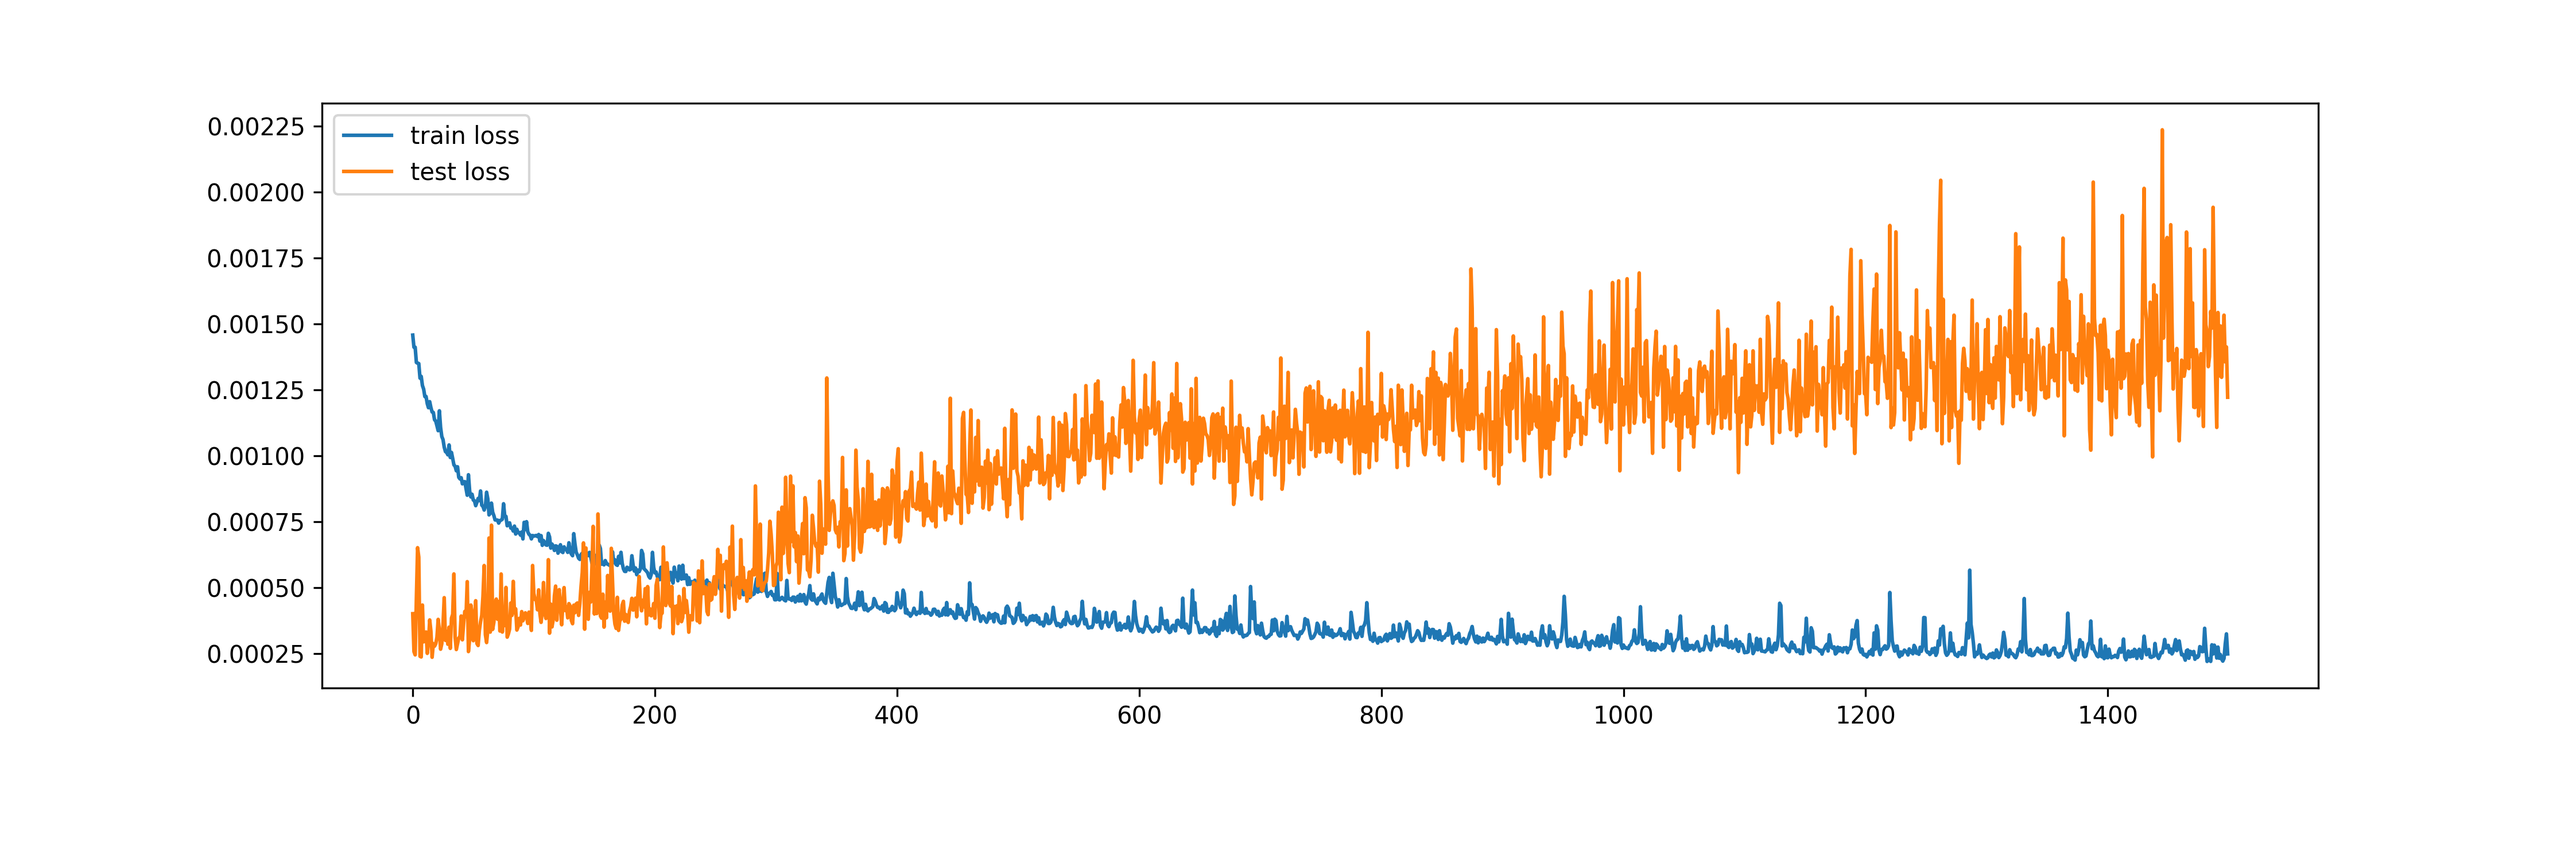
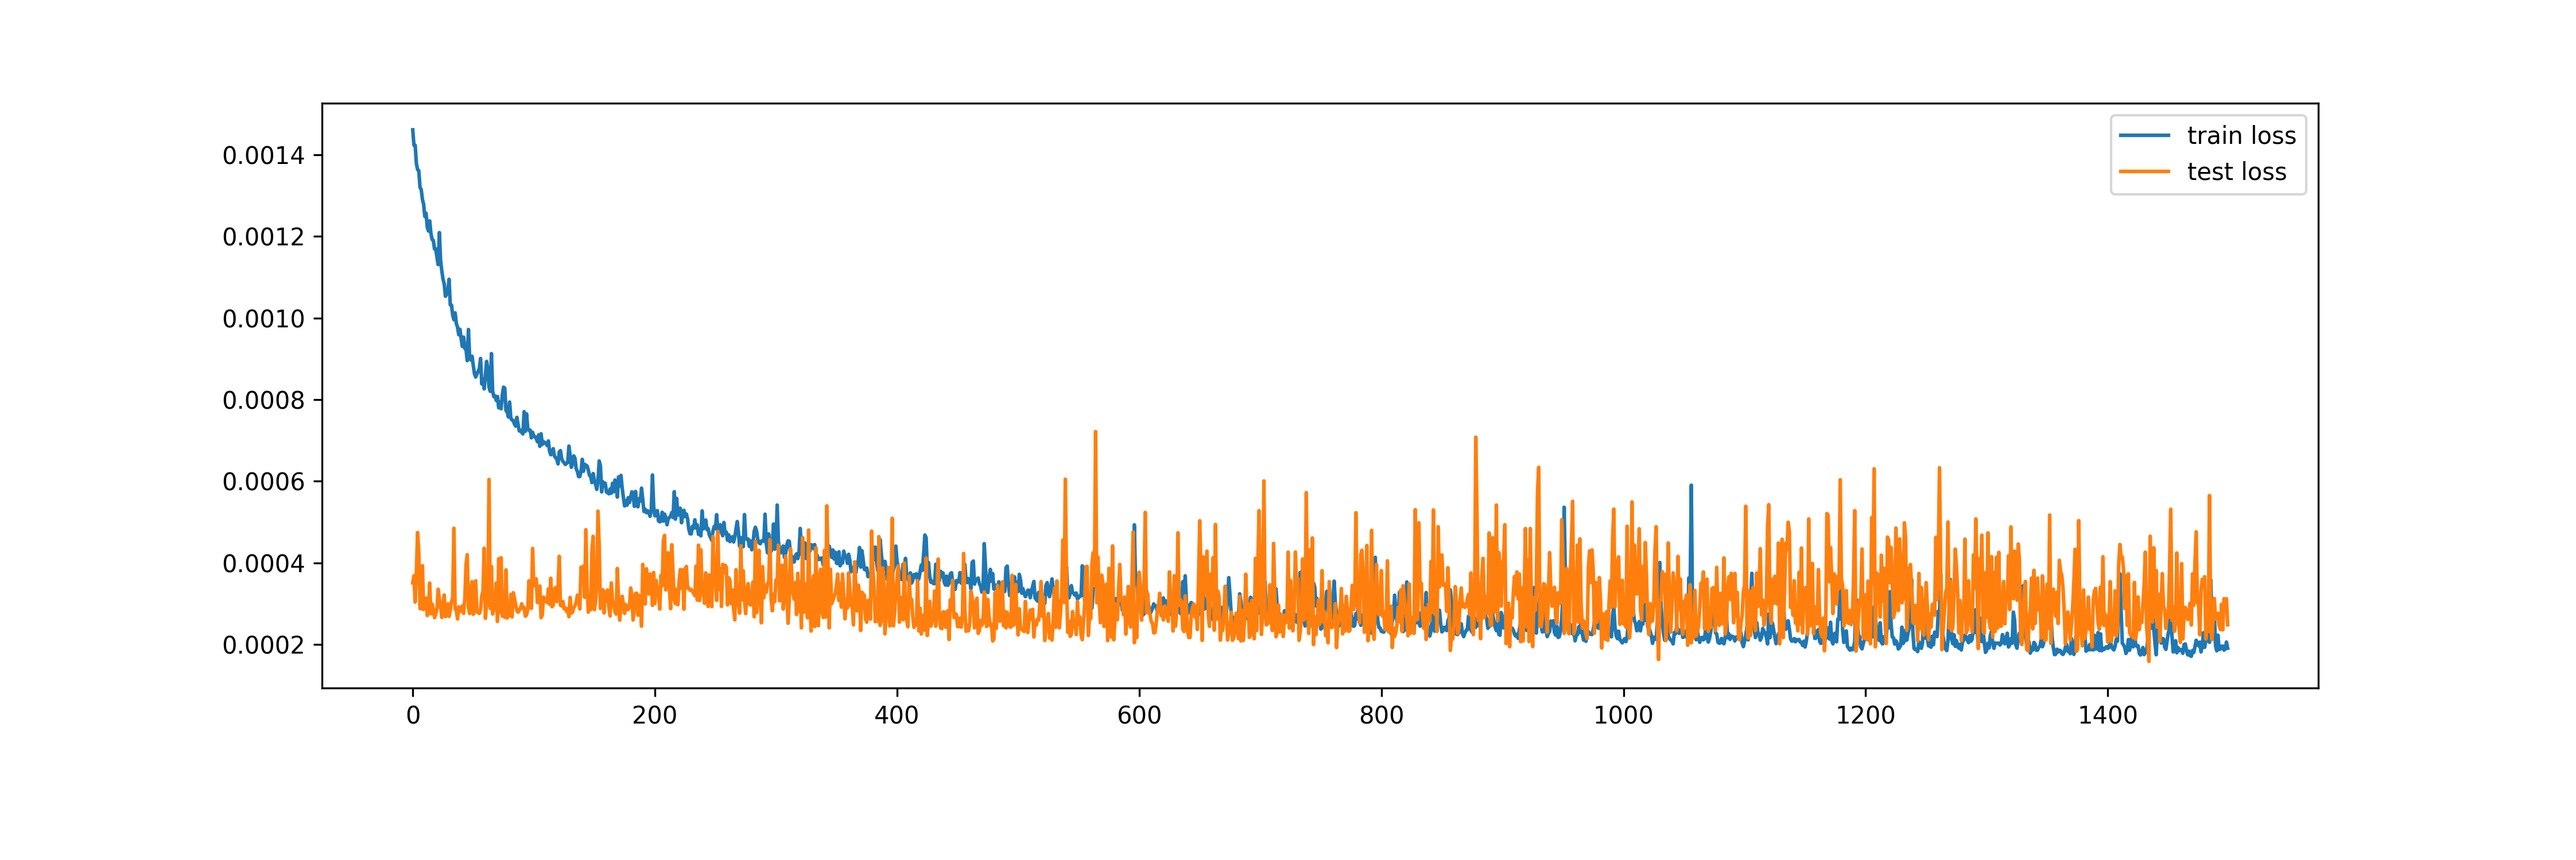
updated code to ad "plot" bool to many methods

diff --git a/Forecasting/ts_comparison.py b/Forecasting/ts_comparison.py
@@ -7,24 +7,21 @@ from ts_tensorflow import StocksForecastDL
 from ts_prophet import StocksForecastProphet
 
 
-def run_comparison():
-    pass
+def run_comparison(col, stock_list, N_TEST_list, DL_models, epochs, save_df=False):
+    """
+    Run a comparison of different forecasting models.
 
+    Args:
+        col (str): Column name to forecast.
+        stock_list (tuple): List of stock names.
+        N_TEST_list (tuple): List of forecast horizons.
+        DL_models (dict): Dictionary of DL models to compare.
+        epochs (int): Number of training epochs.
+        save_df (bool, optional): Whether to save the results as a CSV file. Default is False.
 
-if __name__ == "__main__":
-    plt.ion()
-
-    col = 'Log'
-    # N_TEST_list = (5, 10)
-    # stock_list = ('AAPL', 'UAL')
-    stock_list = ('AAPL', 'UAL', 'WMT', 'PFE', 'MA', 'MCD', 'OXY', 'BA', 'GE', 'GM')
-    N_TEST_list = (5, 10, 20, 50, 100, 200)
-    DL_models = {
-        "ann": ('ann', None),
-        "cnn": ('cnn', None),
-        "lstm": ('rnn', 'lstm'),
-        "gru": ('rnn', 'gru'),
-    }
+    Returns:
+        pandas.DataFrame: DataFrame containing the comparison results.
+    """
 
     column_names = ['model', 'stock', 'n_test', 'mape']
     results = pd.DataFrame(columns=column_names)
@@ -33,21 +30,23 @@ if __name__ == "__main__":
         for stock in stock_list:
             p = StocksForecastProphet(stock_name_list=stock_list, n_test=n)
 
-            p.run_prophet(col=col, stock_name=stock)
+            p.run_prophet(col=col, stock_name=stock, plot=False)
             mape = mean_absolute_percentage_error(p.dfs[stock]['yhat'][-n:], p.dfs[stock]['y'][-n:])
             new_row = ['prophet', stock, n, mape]
             results.loc[len(results)] = new_row
             for model in DL_models:
-                dl = StocksForecastDL(stock_name_list=stock_list, n_test=n, epochs=50)
+                dl = StocksForecastDL(stock_name_list=stock_list, n_test=n, epochs=epochs)
                 if DL_models[model][0] == 'rnn':
                     dl.single_model_comparison(col=[col],
                                                stock_name=stock,
                                                model=DL_models[model][0],
-                                               rnn_model=DL_models[model][1])
+                                               rnn_model=DL_models[model][1],
+                                               plot=False,)
                 else:
                     dl.single_model_comparison(col=[col],
                                                stock_name=stock,
-                                               model=DL_models[model][0])
+                                               model=DL_models[model][0],
+                                               plot=False,)
 
                 mape1 = mean_absolute_percentage_error(dl.dfs[stock]['multistep'][-n:], dl.dfs[stock][col][-n:])
                 mape2 = mean_absolute_percentage_error(dl.dfs[stock]['multioutput'][-n:], dl.dfs[stock][col][-n:])
@@ -56,10 +55,23 @@ if __name__ == "__main__":
                 results.loc[len(results)] = new_row1
                 results.loc[len(results)] = new_row2
 
-    print(results.head(10))
-    results.to_csv('results.csv', index=False)
+    if save_df:
+        results.to_csv('results.csv', index=False)
 
-    df = pd.read_csv("results.csv")
+    return results
+
+
+def plot_comparison(df, load_df=False):
+    """
+    Plot the comparison results.
+
+    Args:
+        df (pandas.DataFrame): DataFrame containing the comparison results.
+        load_df (bool, optional): Whether to load the results from a CSV file. Default is False.
+    """
+
+    if load_df:
+        df = pd.read_csv("results.csv")
 
     # Calculate the average mape for each model and type
     averages = df.groupby(['model', 'n_test'])['mape'].mean().reset_index()
@@ -84,3 +96,82 @@ if __name__ == "__main__":
 
     # Save the plot
     plt.savefig("comparison_dl.png", dpi=300)
+
+
+if __name__ == "__main__":
+    plt.ion()
+
+    COL = 'Log'
+    # N_TEST_list = (5, 10)
+    # stock_list = ('AAPL', 'UAL')
+    STOCK_LIST = ('AAPL', 'UAL', 'WMT', 'PFE', 'MA', 'MCD', 'OXY', 'BA', 'GE', 'GM')
+    N_TEST_LIST = (5, 10, 20, 50, 100, 200)
+    DL_MODELS = {
+        "ann": ('ann', None),
+        "cnn": ('cnn', None),
+        "lstm": ('rnn', 'lstm'),
+        "gru": ('rnn', 'gru'),
+    }
+    EPOCHS = 1500
+
+    comp_results = run_comparison(COL, STOCK_LIST, N_TEST_LIST, DL_MODELS, EPOCHS)
+    plot_comparison(comp_results)
+
+    # column_names = ['model', 'stock', 'n_test', 'mape']
+    # results = pd.DataFrame(columns=column_names)
+    #
+    # for n in N_TEST_list:
+    #     for stock in stock_list:
+    #         p = StocksForecastProphet(stock_name_list=stock_list, n_test=n)
+    #
+    #         p.run_prophet(col=col, stock_name=stock)
+    #         mape = mean_absolute_percentage_error(p.dfs[stock]['yhat'][-n:], p.dfs[stock]['y'][-n:])
+    #         new_row = ['prophet', stock, n, mape]
+    #         results.loc[len(results)] = new_row
+    #         for model in DL_models:
+    #             dl = StocksForecastDL(stock_name_list=stock_list, n_test=n, epochs=50)
+    #             if DL_models[model][0] == 'rnn':
+    #                 dl.single_model_comparison(col=[col],
+    #                                            stock_name=stock,
+    #                                            model=DL_models[model][0],
+    #                                            rnn_model=DL_models[model][1])
+    #             else:
+    #                 dl.single_model_comparison(col=[col],
+    #                                            stock_name=stock,
+    #                                            model=DL_models[model][0])
+    #
+    #             mape1 = mean_absolute_percentage_error(dl.dfs[stock]['multistep'][-n:], dl.dfs[stock][col][-n:])
+    #             mape2 = mean_absolute_percentage_error(dl.dfs[stock]['multioutput'][-n:], dl.dfs[stock][col][-n:])
+    #             new_row1 = [f"{model}_single", stock, n, mape1]
+    #             new_row2 = [f"{model}_multi", stock, n, mape2]
+    #             results.loc[len(results)] = new_row1
+    #             results.loc[len(results)] = new_row2
+    #
+    # print(results.head(10))
+    # results.to_csv('results.csv', index=False)
+
+    # df = pd.read_csv("results.csv")
+    #
+    # # Calculate the average mape for each model and type
+    # averages = df.groupby(['model', 'n_test'])['mape'].mean().reset_index()
+    #
+    # # Create a line plot for each model
+    # fig, ax = plt.subplots(figsize=(15, 5))
+    # models = averages['model'].unique()
+    # for model in models:
+    #     # Determine the line style based on the model name
+    #     linestyle = '--o' if 'single' in model else '-o'
+    #
+    #     model_data = averages[averages['model'] == model]
+    #     ax.plot(model_data['n_test'], model_data['mape'], linestyle, label=model)
+    #
+    # # Set plot title and labels
+    # ax.set_title('Average Value by Type for Each Model')
+    # ax.set_xlabel('Forecast Horizon')
+    # ax.set_ylabel('Mean Absolute Percentage Error')
+    #
+    # # Show a legend indicating the models
+    # plt.legend()
+    #
+    # # Save the plot
+    # plt.savefig("comparison_dl.png", dpi=300)

diff --git a/Forecasting/ts_tensorflow.py b/Forecasting/ts_tensorflow.py
@@ -3,6 +3,7 @@ import yfinance as yf
 import matplotlib.pyplot as plt
 import warnings
 import sys
+import random
 
 import tensorflow as tf
 from tensorflow.keras.layers import Dense, Input  # ANN
@@ -94,7 +95,7 @@ class StocksForecastDL:
             start_date (str): Start date for data retrieval.
             end_date (str): End date for data retrieval.
             t (int): Number of time steps.
-            n_test (int): Number of test samples.
+            n_test (int): length of forecast horizon.
             epochs (int): Number of training epochs.
         """
         self.T = t
@@ -236,7 +237,9 @@ class StocksForecastDL:
                      col: list = ['Log'],
                      diff=True,
                      model="cnn",
-                     multistep=False, **kwargs):
+                     multistep=False,
+                     plot=True,
+                     **kwargs):
         """
         Run the forecast for a given stock.
 
@@ -246,6 +249,7 @@ class StocksForecastDL:
             diff (bool): Indicates whether differencing is applied.
             model (str): Model type ('ann', 'rnn', or 'cnn').
             multistep (bool): Indicates whether multistep prediction is performed.
+            plot (bool): Whether to plot. Default is True.
             **kwargs: Additional keyword arguments for the selected model.
         """
 
@@ -300,24 +304,31 @@ class StocksForecastDL:
             verbose=0,
         )
 
-        plt.plot(r.history['loss'], label='train loss')
-        plt.plot(r.history['val_loss'], label='test loss')
-        plt.legend()
+        if plot:
+            plt.plot(r.history['loss'], label='train loss')
+            plt.plot(r.history['val_loss'], label='test loss')
+            plt.legend()
 
-        if multistep:
-            step_type = "multi"
-        else:
-            step_type = "single"
-        if model == "rnn":
-            rnn_model = kwargs.get("rnn_model")
-            plt.savefig(f"{model}_{rnn_model}_{step_type}_hist.png", dpi=300)
-        else:
-            plt.savefig(f"{model}_{step_type}_hist.png", dpi=300)
-        plt.clf()
+            if multistep:
+                step_type = "multi"
+            else:
+                step_type = "single"
+            if model == "rnn":
+                rnn_model = kwargs.get("rnn_model")
+                plt.savefig(f"{model}_{rnn_model}_{step_type}_hist.png", dpi=300)
+            else:
+                plt.savefig(f"{model}_{step_type}_hist.png", dpi=300)
+            plt.clf()
 
         self.make_predictions(stock_name, col, train_idx, test_idx, Xtrain, Xtest, nn_model, ann_bool, multistep)
 
-    def single_model_comparison(self, stock_name: str = 'UAL', col: list = ['Log'], diff=True, model="cnn", **kwargs):
+    def single_model_comparison(self,
+                                stock_name: str = 'UAL',
+                                col: list = ['Log'],
+                                diff=True,
+                                model="cnn",
+                                plot=True,
+                                **kwargs):
         """
         Perform a comparison of a single model for a given stock.
 
@@ -326,28 +337,32 @@ class StocksForecastDL:
             col (list): List of columns to be used.
             diff (bool): Indicates whether differencing is applied.
             model (str): Model type ('ann', 'rnn', or 'cnn').
+            plot (bool): Whether to plot. Default is True.
             **kwargs: Additional keyword arguments for the selected model.
 
         Returns:
             DataFrame: DataFrame containing the predictions and evaluation metrics.
         """
 
-        self.run_forecast(model=model, stock_name=stock_name, diff=diff, **kwargs)
-        self.run_forecast(model=model, stock_name=stock_name, diff=diff, multistep=True, **kwargs)
+        self.run_forecast(model=model, stock_name=stock_name, diff=diff, plot=plot, **kwargs)
+        self.run_forecast(model=model, stock_name=stock_name, diff=diff, multistep=True, plot=plot, **kwargs)
 
-        pred_cols = col + ['1step_test', 'multistep', 'multioutput']
-        self.dfs[stock_name][pred_cols][-(self.N_TEST * 3):].plot(figsize=(15, 5))
+        if plot:
+            pred_cols = col + ['1step_test', 'multistep', 'multioutput']
+            self.dfs[stock_name][pred_cols][-(self.N_TEST * 3):].plot(figsize=(15, 5))
 
-        if model == "rnn":
-            rnn_model = kwargs.get("rnn_model")
-            plt.savefig(f"{model}_{rnn_model}_comparison.png", dpi=300)
-        else:
-            plt.savefig(f"{model}_comparison.png", dpi=300)
-        plt.clf()
+            if model == "rnn":
+                rnn_model = kwargs.get("rnn_model")
+                plt.savefig(f"{model}_{rnn_model}_comparison.png", dpi=300)
+            else:
+                plt.savefig(f"{model}_comparison.png", dpi=300)
+            plt.clf()
 
 
 if __name__ == "__main__":
+    # make sure to get reproducible results
     np.random.seed(42)
+    random.seed(42)
     tf.random.set_seed(42)
 
     plt.ion()

diff --git a/Forecasting/ts_prophet.py b/Forecasting/ts_prophet.py
@@ -22,7 +22,7 @@ class StocksForecastProphet:
             stock_name_list (tuple): List of stock names.
             start_date (str): Start date for data retrieval.
             end_date (str): End date for data retrieval.
-            n_test (int): Number of test samples.
+            n_test (int): Length of forecast horizon.
         """
         self.N_TEST = n_test
         self.dfs = dict()
@@ -38,6 +38,7 @@ class StocksForecastProphet:
         stock_name: str = 'UAL',
         col: str = 'Log',
         cv: bool = False,
+        plot: bool = True,
     ):
         """
         Run the Prophet forecasting model for a given stock.
@@ -46,6 +47,7 @@ class StocksForecastProphet:
             stock_name (str): Name of the stock.
             col (str): Column to be used for forecasting.
             cv (bool): Whether to conduct cross validation. Default is False.
+            plot (bool): Whether to plot. Default is True.
         """
         df0 = self.dfs[stock_name]
         df0['y'] = df0[col]
@@ -73,16 +75,18 @@ class StocksForecastProphet:
             plot_cross_validation_metric(df_cv, metric='mape')
             plt.savefig("prophet_cv_mape.png", dpi=300)
 
-        fig = m.plot(forecast, figsize=(28, 8))
-        add_changepoints_to_plot(fig.gca(), m, forecast)
-        plt.savefig("prophet_with_changepoints.png", dpi=300)
+        if plot:
+            fig = m.plot(forecast, figsize=(28, 8))
+            add_changepoints_to_plot(fig.gca(), m, forecast)
+            plt.savefig("prophet_with_changepoints.png", dpi=300)
 
-        m.plot_components(forecast)
-        plt.savefig("prophet_components", dpi=300)
+            m.plot_components(forecast)
+            plt.savefig("prophet_components", dpi=300)
 
 
 if __name__ == "__main__":
     ts = StocksForecastProphet()
     ts.run_prophet(cv=True)
 
+# Making Prophet to work with Python 3.9 in MacBook:
 # https://www.google.com/search?client=firefox-b-1-d&q=mac+how+to+open+usr%2Flocal+in+finder
